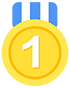
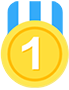
icon更换

diff --git a/ui/web/views/medical-performance/index.vue b/ui/web/views/medical-performance/index.vue
@@ -1176,8 +1176,8 @@ export default {
         }
         .top_three_ranking {
           .icon {
-            width: 21.2px;
-            height: 26.7px;
+            width: 23px;
+            height: 30px;
           }
         }
 
